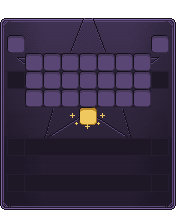
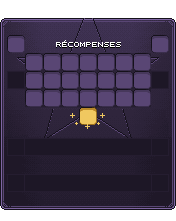
Menu titles in QuinqueFive on the first row (Rangs, Offrande, Récompenses), shared text helper in fond_lib

Changed region(s): [[0.3125, 0.19, 0.7102, 0.2172]]

diff --git a/Flux/assets/fond_lib.py b/Flux/assets/fond_lib.py
@@ -72,3 +72,61 @@ def tampon_case(png=None):
     png = png or os.path.join(os.path.dirname(os.path.abspath(__file__)), "case_arrondie.png")
     im = Image.open(png).convert("RGBA")
     return {(x - 1, y - 1): im.getpixel((x, y)) for y in range(im.height) for x in range(im.width) if im.getpixel((x, y))[3]}
+
+
+# ---------------------------------------------------------------- menu titles (QuinqueFive, 5 px high)
+
+_FONT = None
+# accented capitals: base letter + extra pixels (relative to the letter's top left)
+_ACCENTS = {"É": ("E", [(3, -2), (2, -1)]), "È": ("E", [(1, -2), (2, -1)]), "Ê": ("E", [(1, -1), (2, -2), (3, -1)]),
+            "Ô": ("O", [(1, -1), (2, -2), (3, -1)]), "À": ("A", [(1, -2), (2, -1)])}
+WHITE, SHADOW = (255, 255, 255, 255), (0, 0, 0, 255)
+
+
+def _font():
+    global _FONT
+    if _FONT is None:
+        import json
+        import os
+        _FONT = json.load(open(os.path.join(os.path.dirname(os.path.abspath(__file__)), "metiers", "quinquefive.json")))
+    return _FONT
+
+
+def _glyph(c):
+    base, extra = _ACCENTS.get(c, (c, []))
+    return _font().get(base), extra
+
+
+def text_width(txt):
+    w = 0
+    for c in txt.upper():
+        g, _ = _glyph(c)
+        w += (len(g[0]) if g else 3) + 1
+    return w - 1
+
+
+def text(im, txt, cx, y, colour=WHITE, shadow=SHADOW):
+    """QuinqueFive capitals centred on cx, top at y, with a one-pixel shadow below (as the pass title)."""
+    x = cx - text_width(txt) // 2
+    px = im.load()
+    for c in txt.upper():
+        g, extra = _glyph(c)
+        if not g:
+            x += 4
+            continue
+        for dy, row in enumerate(g):
+            for dx, ch in enumerate(row):
+                if ch == "#":
+                    px[x + dx, y + dy + 1] = shadow
+        for dy, row in enumerate(g):
+            for dx, ch in enumerate(row):
+                if ch == "#":
+                    px[x + dx, y + dy] = colour
+        for dx, dy in extra:
+            px[x + dx, y + dy] = colour
+        x += len(g[0]) + 1
+
+
+def title(im, txt, row_top, cx=88):
+    """Menu title on the menu's first row (between the back button and the menu icon), as in the pass."""
+    text(im, txt, cx, row_top + 6)

diff --git a/Flux/assets/offrande/gen_fonds.py b/Flux/assets/offrande/gen_fonds.py
@@ -2,7 +2,7 @@
 
 The suite's chest (chest_6.png: generic violet panel, chest and inventory) with the player's inventory part untouched
 (the offering menu shows it, so the player sees what he can deposit). In the chest part only the used cells stay:
-  slot 0 back, slot 8 offering icon (first row rule), 10-16 / 19-25 / 28-34 requested items (tinted with the rank's
+  slot 0 back, slot 8 offering icon (first row rule) with the title « OFFRANDE » between them, 10-16 / 19-25 / 28-34 requested items (tinted with the rank's
   colour), 18 / 26 previous / next page (dark cells), 40 deposit all (gold), 49 filter.
 A ribbon of the rank's colour runs behind the title row, with the stars of its tier.
 
@@ -15,7 +15,7 @@ from PIL import Image, ImageDraw
 HERE = os.path.dirname(os.path.abspath(__file__))
 ASSETS = os.path.dirname(HERE)
 sys.path.insert(0, ASSETS)
-from fond_lib import poser, tampon_case  # noqa: E402
+from fond_lib import poser, tampon_case, title  # noqa: E402
 
 RANKS = [("citoyen", "9AD29A", 0), ("repute", "6AC7C7", 0), ("populaire", "5CA8E6", 1), ("eminent", "4E72E6", 1),
          ("figure", "8A5CE6", 1), ("influenceur", "D15CE6", 2), ("icone", "E65C9F", 2), ("legende", "FFD94D", 2),
@@ -86,6 +86,7 @@ def background(rank, colour, tier, chest, generic, case):
         poser(im, tint(case, colour, .75), *objet(n))
     for n in (0, 8, 49):
         poser(im, case, *objet(n))
+    title(im, "Offrande", objet(0)[1])
     for n in (18, 26):
         dark(d, n)
     gold = tint(case, "F0A800")

diff --git a/Flux/assets/rangs/gen_fond.py b/Flux/assets/rangs/gen_fond.py
@@ -1,7 +1,7 @@
 """Background of the rank menu (museum, chosen on 2026-10-28), from the round-4 proposals (gen_v4.py, variant 1).
 
 Layout (6-row chest, hidden inventory), the whole drawing one row down (row 0 empty):
-  row 1          back (9) and menu icon (17), the ceiling lamps between them
+  row 1          back (9) and menu icon (17), the title « RANGS » and the ceiling lamps between them
   rows 3 to 5    4 tier banners on a gold rod, 3 rank slots each, weakest on top: columns 1, 3, 5, 7
                  (slots 28/37/46, 30/39/48, 32/41/50, 34/43/52)
   inventory row  reward slot of each tier (55, 57, 59, 61): the gap between the chest and the inventory separates
@@ -16,7 +16,7 @@ from PIL import Image, ImageDraw
 
 HERE = os.path.dirname(os.path.abspath(__file__))
 sys.path.insert(0, os.path.dirname(HERE))
-from fond_lib import generique_raccourci, poser, tampon_case  # noqa: E402
+from fond_lib import generique_raccourci, poser, tampon_case, title  # noqa: E402
 
 W, H = 176, 221
 TOP = 18  # the whole menu starts one row down: row 0 stays empty
@@ -122,6 +122,7 @@ def background():
         poser(im, tint(case, "F0A800"), *objet(slot(REWARD_ROW, col)))
     for n in (9, 17):  # back and menu icon, first row of the menu (row 1)
         poser(im, case, *objet(n))
+    title(im, "Rangs", objet(9)[1])
     return im
 
 

diff --git a/Flux/assets/recompenses/ajouter_titre.py b/Flux/assets/recompenses/ajouter_titre.py
@@ -1,0 +1,17 @@
+"""Rewards menu background: the owner's hand-retouched image (menu_recompenses_sans_titre.png) with the menu title
+« RÉCOMPENSES » on its first row (back 9, menu icon 17), as in every menu. The retouched image itself is never
+regenerated.
+
+Usage: python ajouter_titre.py <png out>  (Pillow)
+"""
+import os
+import sys
+from PIL import Image
+
+HERE = os.path.dirname(os.path.abspath(__file__))
+sys.path.insert(0, os.path.dirname(HERE))
+from fond_lib import title  # noqa: E402
+
+im = Image.open(os.path.join(HERE, "menu_recompenses_sans_titre.png")).convert("RGBA")
+title(im, "Récompenses", 36)
+im.save(sys.argv[1])

diff --git a/CLAUDE.md b/CLAUDE.md
@@ -74,6 +74,9 @@ The plugins are written **as English plugins, then adapted to French** for our s
 - **First row of every menu: back button in its first slot, the icon of the current menu (what this page is, with its
   explanation in the tooltip) in its last slot**, like the pass. "First row" means the first row of the drawn menu,
   wherever it sits: a menu drawn in the hidden inventory area starts there, not at slot 0 of the chest.
+- **Every menu has a title on its first row**, centred between the back button and the menu icon: QuinqueFive
+  capitals (5 px), white with a one-pixel shadow, as in the pass (`fond_lib.title()` in `Flux/assets`). Keep that
+  strip readable: light decor (a light beam, the generic background) is fine behind it, a detailed drawing is not.
 - **Use the window's own spacing instead of empty rows.** The hidden inventory starts 14 px lower than a regular row
   would: rather than wasting an empty slot row to separate two groups, shift the whole drawing (background
   included) so the separation falls on the chest/inventory gap. A menu does not have to start at row 0. Paths cross
